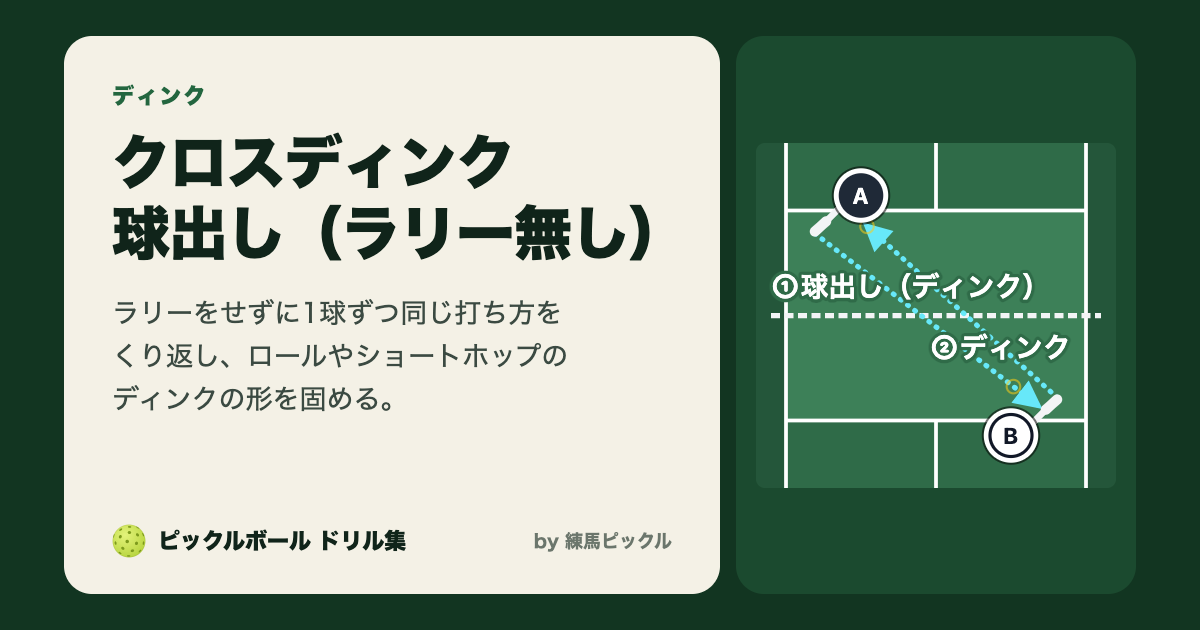
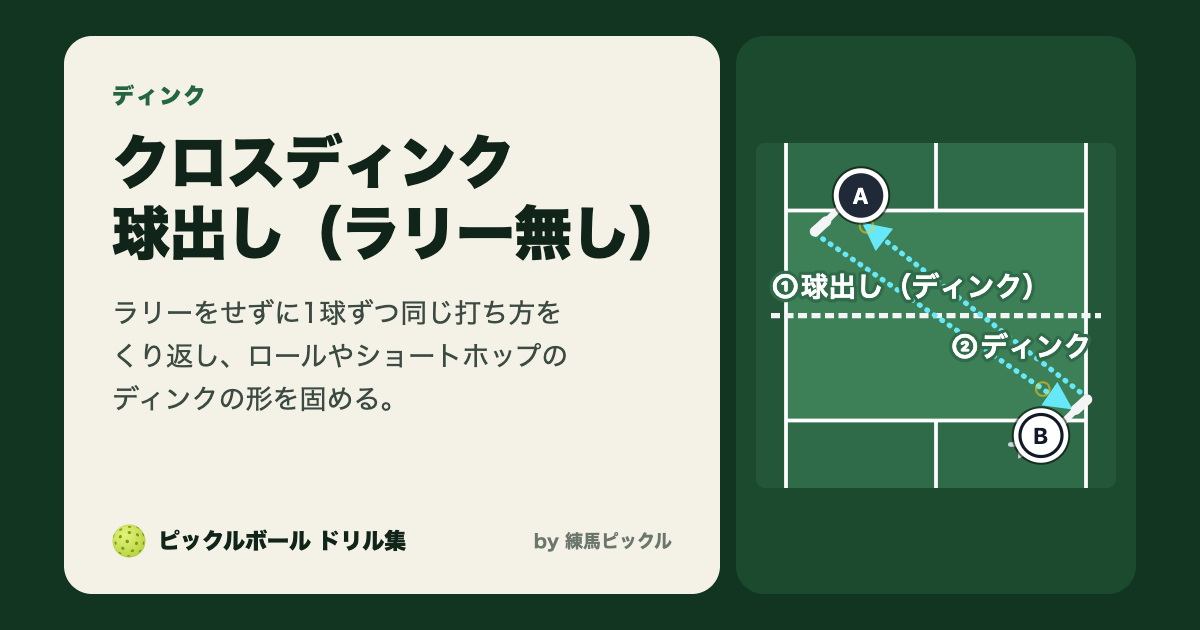
dnk006/dnk008: wait at the base spot, side-step to the fed cross dink, return after hitting
Claude-Session: https://claude.ai/code/session_013HpVCq95JLREtWQF64J4S6

Changed region(s): [[0.7092, 0.3921, 0.925, 0.754], [0.7092, 0.3619, 0.74, 0.3921], [0.6783, 0.3921, 0.7092, 0.4222]]

diff --git a/src/content/docs/drills/dnk/dnk006.md b/src/content/docs/drills/dnk/dnk006.md
@@ -9,24 +9,29 @@ drill:
   scene: 4人ともキッチンラインに並び、ディンクの打ち合いになっている。どちらかが浮いた球を出すと、相手に攻められる。
   purpose: ネットの低いところを通して相手のキッチンに落とし続け、相手が打てる高さの球を渡さない。相手が先に浮かせるまで待ち、浮いた球をこちらから攻める。
   focus: ラリーをせずに1球ずつ同じ打ち方をくり返し、ロールやショートホップのディンクの形を固める。
-  setup: 2人1組でクロス（対角）に入り、2人ともキッチンライン付近に立つ。1面で2組同時にできる。
+  setup: 2人1組でクロス（対角）に入り、2人ともキッチンライン付近に立つ。練習役は自分の半面の真ん中から少し球出し役の側に寄った位置（基本の位置）で待つ。1面で2組同時にできる。
   feed: 球出し役は手元で一度弾ませてから、練習役へクロスのディンクを出す。
   steps:
-    - 練習役はキッチンライン付近で構えて待つ
+    - 練習役は基本の位置で構えて待つ
+    - 球出し役が打ったら、サイドステップで横に動いて球に合わせる
     - 来た球を、決めた打ち方（ロールかショートホップ）のディンクでクロスに返す
+    - 返したらすぐに基本の位置へ戻る
     - 球出し役は返ってきた球を打ち返さず、次の球を出す
     - 一定時間で球出し役と練習役を交代する
   points:
     - 体の横ではなく、体の前（足の前）で打つ
     - パドルのヘッドを下げた形から打ち出す。ストロークのように後ろから振らない
     - 1球ごとに同じ形で打ち、打ち方を体に覚えさせる
+    - 返したら必ず基本の位置へ戻る。最初から端で待たない
   diagram:
     players:
       - { id: A, at: far-left-kitchen, role: feed }
-      - { id: B, at: near-right-kitchen, role: practice }
+      - { id: B, at: near-rightInner-kitchen, role: practice }
     shots:
       - { from: A, to: B, type: dink, feed: true, n: 1, bounce: front, afterBounce: true }
+      - { from: B, to: near-rightOuter-kitchen, type: move, n: 1 }
       - { from: B, to: A.front, type: dink, n: 2 }
+      - { from: B, to: near-rightInner-kitchen, type: move, n: 2 }
   variants:
     - { key: roll, name: ロール, default: true, note: ロール（トップスピン）でディンク }
     - { key: hop, name: ショートホップ, note: 弾んだ直後の低いところを打つショートホップでディンク }

diff --git a/src/content/docs/drills/dnk/dnk008.md b/src/content/docs/drills/dnk/dnk008.md
@@ -9,11 +9,13 @@ drill:
   scene: 4人ともキッチンラインに並び、ディンクの打ち合いになっている。どちらかが浮いた球を出すと、相手に攻められる。
   purpose: ネットの低いところを通して相手のキッチンに落とし続け、相手が打てる高さの球を渡さない。相手が先に浮かせるまで待ち、浮いた球をこちらから攻める。
   focus: 相手の足元やバック側へ速めのディンクを打ち、相手に浮いた球を出させる攻めの形を身につける。
-  setup: 2人1組でクロス（対角）に入り、2人ともキッチンライン付近に立つ。1面で2組同時にできる。
+  setup: 2人1組でクロス（対角）に入り、2人ともキッチンライン付近に立つ。練習役は自分の半面の真ん中から少し球出し役の側に寄った位置（基本の位置）で待つ。1面で2組同時にできる。
   feed: 球出し役は手元で一度弾ませてから、練習役へクロスのディンクを出す。
   steps:
-    - 練習役はキッチンライン付近で構えて待つ
+    - 練習役は基本の位置で構えて待つ
+    - 球出し役が打ったら、サイドステップで横に動いて球に合わせる
     - 来た球を、球出し役の足元やバック側へ速めのディンクで返す
+    - 返したらすぐに基本の位置へ戻る
     - 球出し役は返ってきた球を打ち返さず、次の球を出す
     - 一定時間で球出し役と練習役を交代する
   points:
@@ -21,13 +23,16 @@ drill:
     - パドルのヘッドを下げた形から打ち出す。ストロークのように後ろから振らない
     - 速めに打っても高く上げず、ネットの少し上を通す
     - 相手の足元やバック側など、取りづらいところをねらう
+    - 返したら必ず基本の位置へ戻る。最初から端で待たない
   diagram:
     players:
       - { id: A, at: far-left-kitchen, role: feed }
-      - { id: B, at: near-right-kitchen, role: practice }
+      - { id: B, at: near-rightInner-kitchen, role: practice }
     shots:
       - { from: A, to: B, type: dink, feed: true, n: 1, bounce: front, afterBounce: true }
+      - { from: B, to: near-rightOuter-kitchen, type: move, n: 1 }
       - { from: B, to: A.front, type: dink, n: 2, label: 攻めのディンク }
+      - { from: B, to: near-rightInner-kitchen, type: move, n: 2 }
   builderDefault:
     min: 2
     sets: 5
